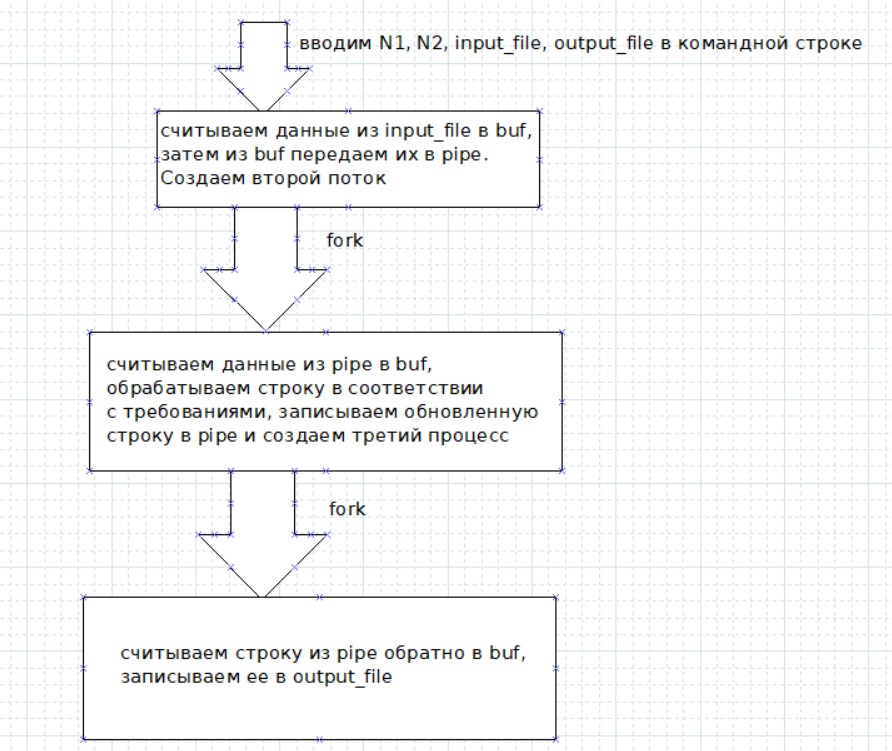
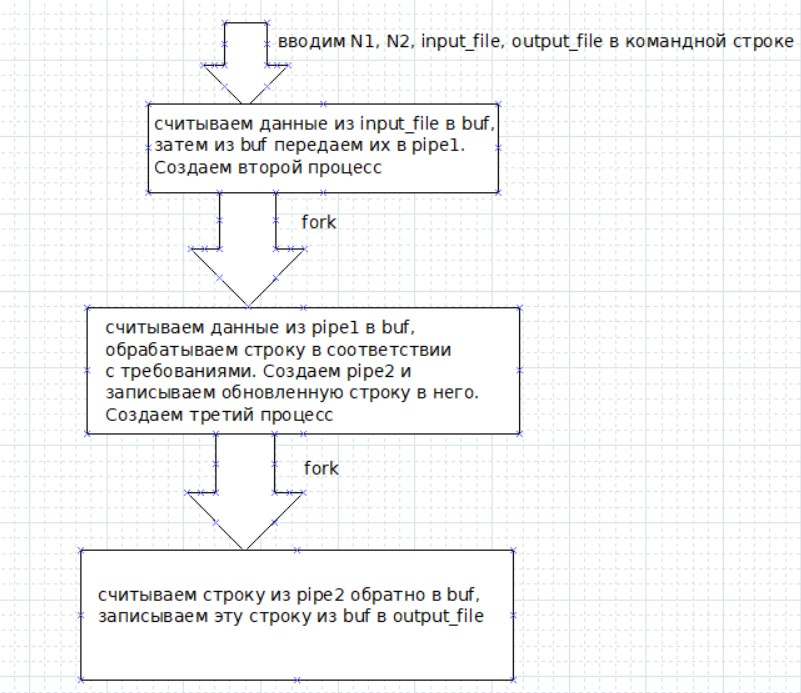
added some fixes, block-schemes updated

Changed region(s): [[0.0624, 0.0, 1.0, 1.0], [0.8739, 0.9697, 0.9051, 1.0]]

diff --git a/IDZ1/5/main.c b/IDZ1/5/main.c
@@ -18,8 +18,8 @@ int main(int argc, char *argv[]) {
     char *input_file = (char *) calloc(5000, sizeof(char)); // название файла для чтения
     char *output_file = (char *) calloc(5000, sizeof(char)); // название файла для записи
     char temp;
-    char fifo_name[] ="file1.fifo";
-    char fifo_name2[] ="file2.fifo";
+    char fifo_name[] = "file1.fifo";
+    char fifo_name2[] = "file2.fifo";
     ssize_t read_bytes;
     size_t write_size, fifo_size;
 
@@ -29,10 +29,10 @@ int main(int argc, char *argv[]) {
     strcpy(output_file, argv[4]);
     remove(output_file);
 
-    (void)umask(0);
+    (void) umask(0);
     /* Попытаемся создать fifo с именем file1.fifo в текущей
     директории */
-    if(mknod(fifo_name, S_IFIFO | 0666, 0) < 0){
+    if (mknod(fifo_name, S_IFIFO | 0666, 0) < 0) {
         /* Если создать fifo не удалось, печатаем об этом
         сообщение и прекращаем работу */
         printf("Can\'t create fifo at process 1\n");
@@ -60,8 +60,8 @@ int main(int argc, char *argv[]) {
             printf("Can\'t close file\n");
         }
 
-        // записываем данные из buf в fifo
-        if((fd_fifo = open(fifo_name, O_WRONLY)) < 0){
+        // открываем fifo
+        if ((fd_fifo = open(fifo_name, O_WRONLY)) < 0) {
             /* Если открыть fifo не удалось, печатаем об этом
             сообщение и прекращаем работу */
             printf("Can\'t open FIFO for writing at first process\n");
@@ -69,7 +69,7 @@ int main(int argc, char *argv[]) {
         }
         // Пробуем записать в fifo наш buf
         fifo_size = write(fd, buf, strlen(buf));
-        if(fifo_size != strlen(buf)){
+        if (fifo_size != strlen(buf)) {
             /* Если записалось меньшее количество байт, то сообщаем
             об ошибке и завершаем работу */
             printf("Can\'t write all string to FIFO at first process\n");
@@ -81,7 +81,7 @@ int main(int argc, char *argv[]) {
         wait(NULL);
     } else if (chpid == 0) { // второй процесс
 
-        if((fd_fifo = open(fifo_name, O_RDONLY)) < 0){
+        if ((fd_fifo = open(fifo_name, O_RDONLY)) < 0) {
             /* Если открыть fifo не удалось, печатаем об этом
             сообщение и прекращаем работу */
             printf("Can\'t open FIFO for reading at second process\n");
@@ -89,7 +89,7 @@ int main(int argc, char *argv[]) {
         }
         // Пробуем прочитать из fifo данные в массив
         fifo_size = read(fd_fifo, buf, 5000);
-        if(fifo_size < 0){
+        if (fifo_size < 0) {
             /* Если прочитать не смогли, сообщаем об ошибке
             и завершаем работу */
             printf("Can\'t read string at second process\n");
@@ -106,9 +106,9 @@ int main(int argc, char *argv[]) {
         printf("%s\n", buf);
 
         // создание fifo2
-        (void)umask(0);
-        if(mknod(fifo_name2, S_IFIFO | 0666, 0) < 0){
-            /* Если создать fifo не удалось, печатаем об этом
+        (void) umask(0);
+        if (mknod(fifo_name2, S_IFIFO | 0666, 0) < 0) {
+            /* Если создать fifo2 не удалось, печатаем об этом
             сообщение и прекращаем работу */
             printf("Can\'t create fifo at process 2\n");
             exit(-1);
@@ -116,8 +116,7 @@ int main(int argc, char *argv[]) {
 
         chpid2 = fork(); // создание третьего потока
         if (chpid2 > 0) {
-            // записываем измененную строку в fifo2
-            if((fd_fifo2 = open(fifo_name2, O_WRONLY)) < 0){
+            if ((fd_fifo2 = open(fifo_name2, O_WRONLY)) < 0) {
                 /* Если открыть fifo не удалось, печатаем об этом
                 сообщение и прекращаем работу */
                 printf("Can\'t open FIFO for writing at second process\n");
@@ -125,7 +124,7 @@ int main(int argc, char *argv[]) {
             }
             // Пробуем записать в fifo2 наш buf
             fifo_size = write(fd_fifo2, buf, strlen(buf));
-            if(fifo_size != strlen(buf)){
+            if (fifo_size != strlen(buf)) {
                 /* Если записалось меньшее количество байт, то сообщаем
                 об ошибке и завершаем работу */
                 printf("Can\'t write all string to fifo2 at second process\n");
@@ -143,7 +142,7 @@ int main(int argc, char *argv[]) {
             }
 
             // Пробуем прочитать из fifo2 данные в массив
-            if((fd_fifo2 = open(fifo_name2, O_RDONLY)) < 0){
+            if ((fd_fifo2 = open(fifo_name2, O_RDONLY)) < 0) {
                 /* Если открыть fifo2 не удалось, печатаем об этом
                 сообщение и прекращаем работу */
                 printf("Can\'t open fifo2 for reading at third process\n");
@@ -151,7 +150,7 @@ int main(int argc, char *argv[]) {
             }
 
             fifo_size = read(fd_fifo2, buf, 5000);
-            if(fifo_size < 0){
+            if (fifo_size < 0) {
                 /* Если прочитать не смогли, сообщаем об ошибке
                 и завершаем работу */
                 printf("Can\'t read string at third process\n");
@@ -172,4 +171,6 @@ int main(int argc, char *argv[]) {
             }
         }
     }
+    remove("file1.fifo");
+    remove("file2.fifo");
 }
